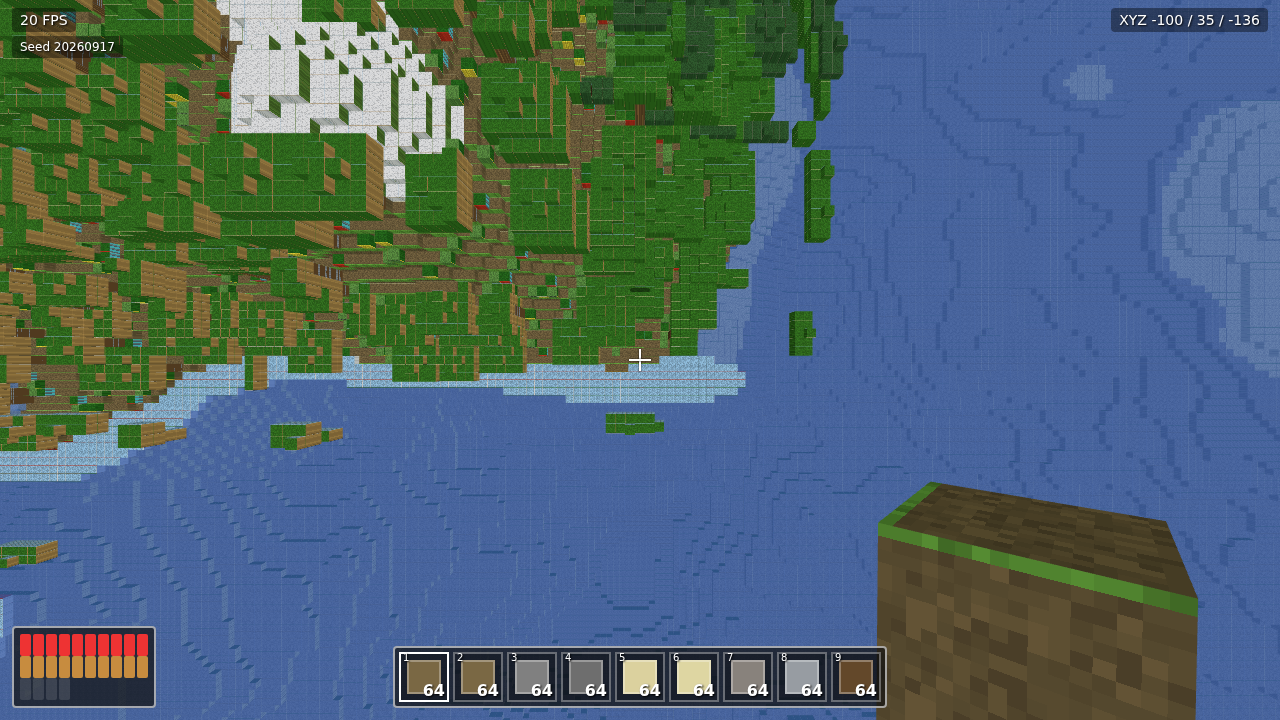
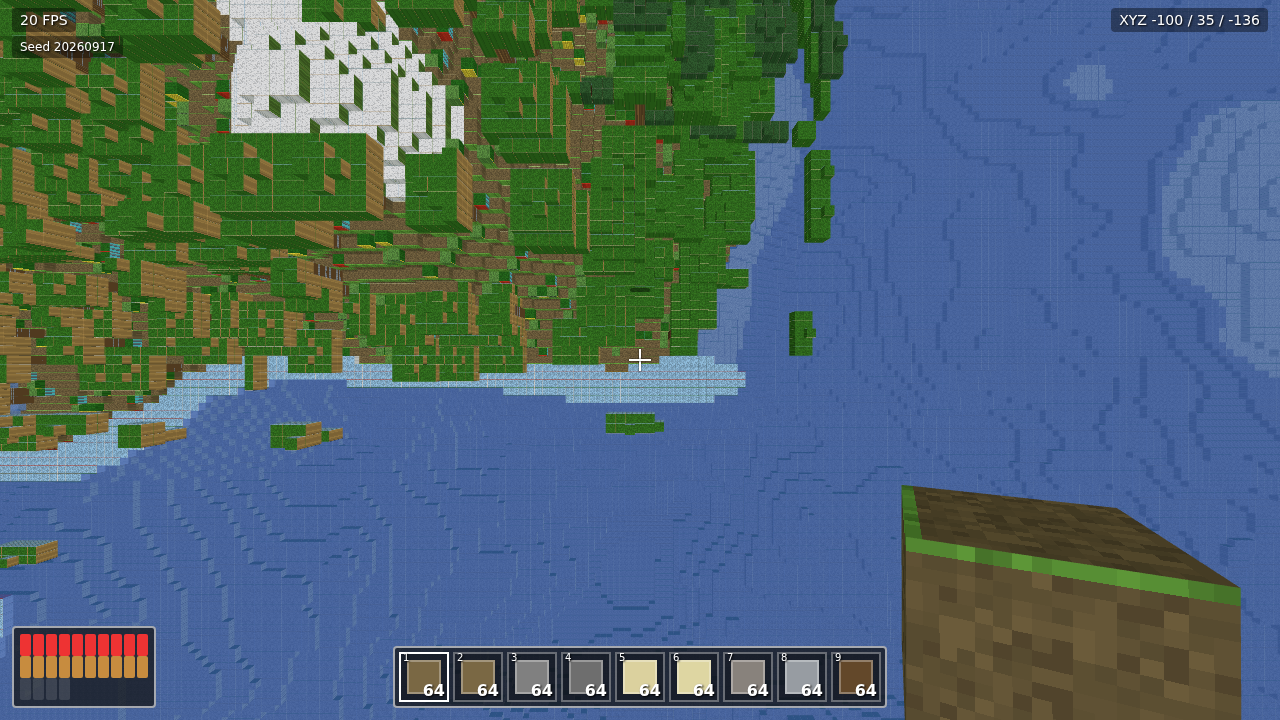
W1 rework v4 (C02): enforce deep land-interior spawn (no water around player)
Strengthen findSafeSpawn to require exposed land across a ~36-block radius
(landWide >=60/81) so the player is deep in a landmass, never on a coastal
sliver where water can dominate the first-person view. Verified spawn (-99,-135)
is land-interior: 81/81 columns land within 32 blocks, 0% surface-water within 40.
Fresh production-build capture: render 0.0% black, sky+terrain (1% water); top-down
21% green terrain. 12 vitest pass; build OK; zero console errors.

Changed region(s): [[0.6875, 0.6722, 0.9688, 1.0], [0.75, 0.9472, 0.8125, 1.0], [0.8438, 0.7028, 0.9062, 0.7333]]

diff --git a/src/worldgen.js b/src/worldgen.js
@@ -357,6 +357,13 @@ export function findSafeSpawn(seed, maxRadius = 480, step = 4, sight = 16) {
       const top = topSolid(px, pz);
       if (top < 0 || top - c.elevation > 2) continue; // on ground, not a tree/pillar
       if (!headClear(px, pz, top)) continue;
+      // land-interior: a ~36-block radius must be exposed land so the player is deep in a landmass,
+      // NOT on a thin coastal sliver where water can dominate the view (reviewer C02)
+      let landNear = 0, landFar = 0, landWide = 0;
+      for (const [ox, oz] of [[-6,0],[6,0],[0,-6],[0,6],[-4,-4],[4,4],[-4,4],[4,-4]]) landNear += surfaceHeight(px + ox, pz + oz) >= 0 ? 1 : 0;
+      for (const [ox, oz] of [[-18,0],[18,0],[0,-18],[0,18],[-12,-12],[12,12],[-12,12],[12,-12]]) landFar += surfaceHeight(px + ox, pz + oz) >= 0 ? 1 : 0;
+      for (let ox = -32; ox <= 32; ox += 8) for (let oz = -32; oz <= 32; oz += 8) landWide += surfaceHeight(px + ox, pz + oz) >= 0 ? 1 : 0;
+      if (landNear < 7 || landFar < 6 || landWide < 60) continue; // must be surrounded by land
       const eye = top + 4;
       const s = bestSight(px, pz, eye);
       if (!s || s.drop < 2) continue; // need a visible land drop-ahead (overlook)
